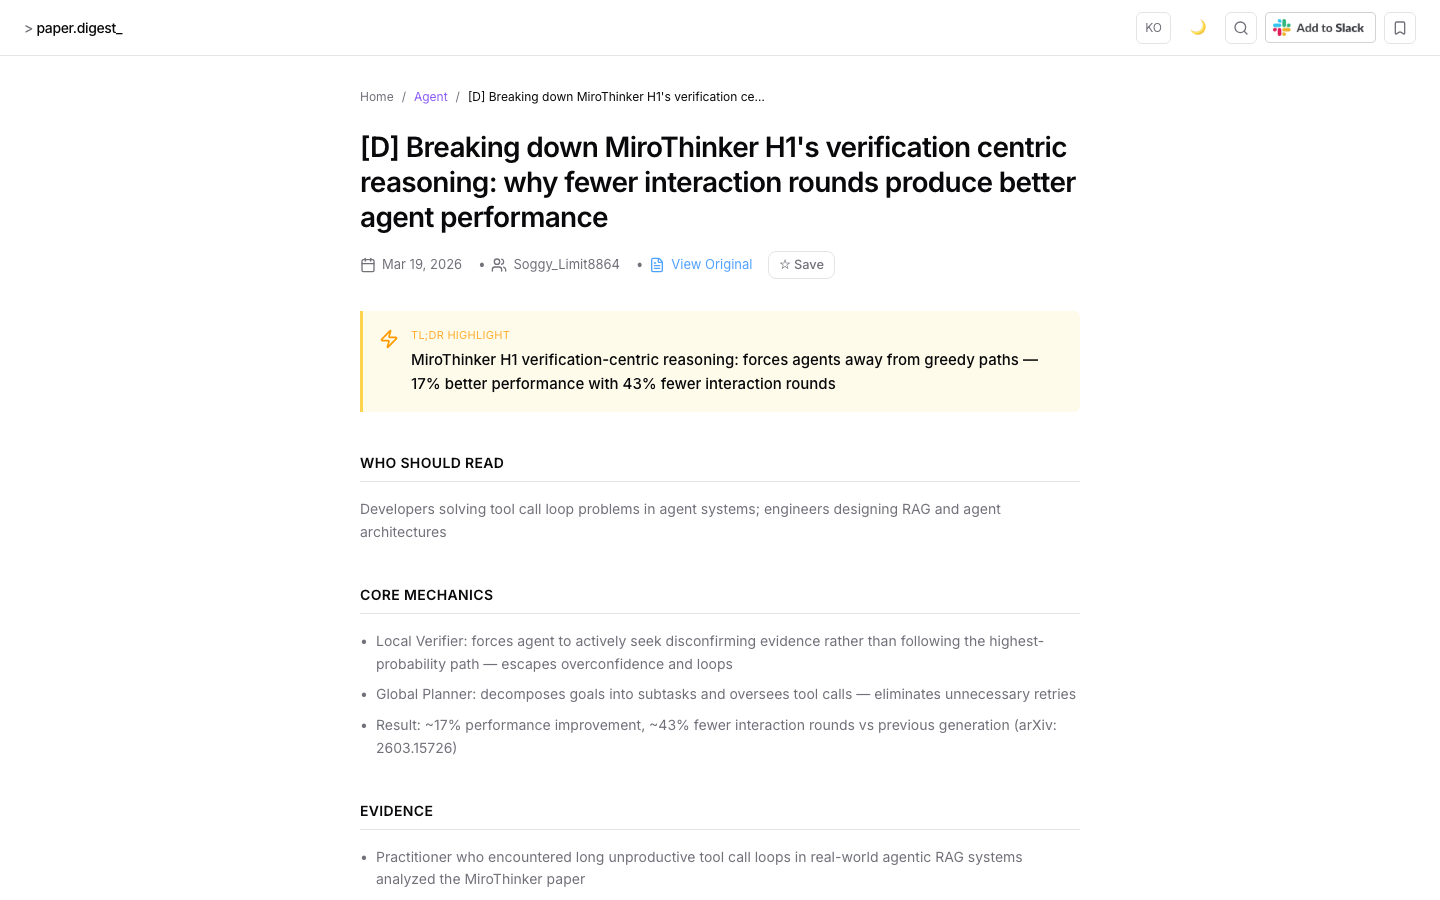
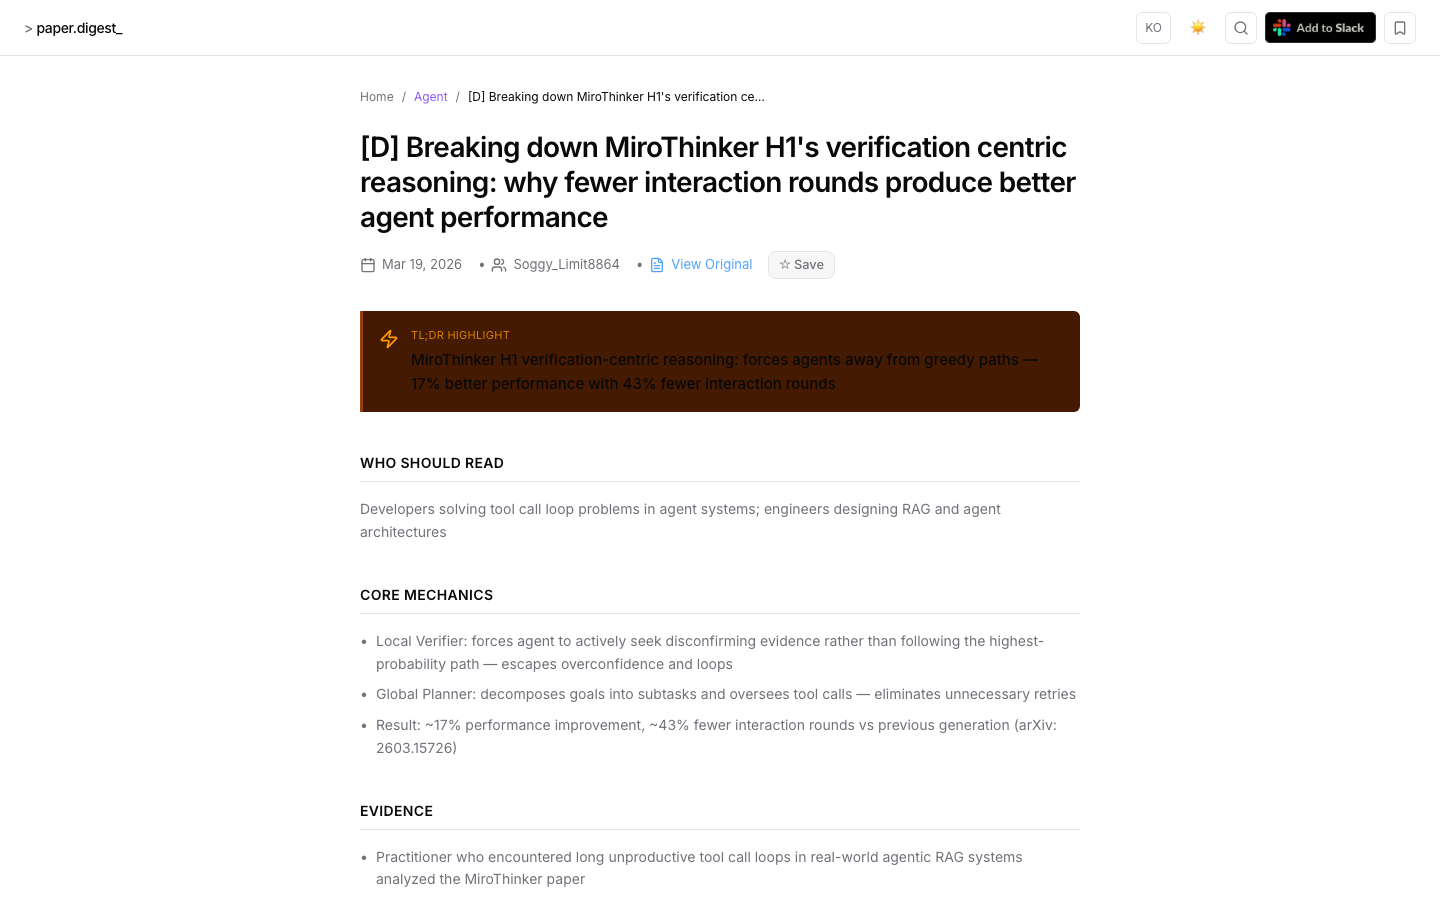
docs: README 영/한 분리 + 라이트 테마 스크린샷 교체

Changed region(s): [[0.25, 0.3422, 0.75, 0.4667], [0.875, 0.0, 0.9688, 0.0622]]

diff --git a/README.md b/README.md
@@ -9,7 +9,7 @@
 [![TypeScript](https://img.shields.io/badge/TypeScript-5-3178C6?logo=typescript&logoColor=white)](https://typescriptlang.org)
 [![License](https://img.shields.io/badge/license-MIT-22C55E)](LICENSE)
 
-**[ai-paper-delta.vercel.app](https://ai-paper-delta.vercel.app)**
+**[ai-paper-delta.vercel.app](https://ai-paper-delta.vercel.app)** · [한국어](README.ko.md)
 
 </div>
 
@@ -43,12 +43,12 @@ A GitHub Actions pipeline runs automatically every day at 07:00 KST:
 | 5. Translate | `translate.ts` | Korean summaries | Claude Sonnet | Max 12/day |
 | 6. Redeploy | `redeploy.yml` | — | Vercel production deploy | — |
 
-Screening criteria for **papers** — passes only if:
+**Screening criteria for papers** — passes only if:
 - Immediately applicable without model training or infra setup
 - A developer can change their prompting or tool usage based on this
 - Non-obvious, not already common knowledge
 
-Screening criteria for **community** — passes only if:
+**Screening criteria for community** — passes only if:
 - Technical tutorial, deep dive, or real-world experience with AI tools
 - Developer workflow or productivity content with substance
 
@@ -91,76 +91,9 @@ npx drizzle-kit push
 npm run dev   # http://localhost:3000
 ```
 
----
-
 ## Contributing
 
 PRs welcome. Bug reports and feature requests via [Issues](../../issues).
-
-## License
-
-MIT
-
----
----
-
-<div align="center">
-
-# AI Paper Digest (한국어)
-
-**AI 에이전트를 쓰거나 만드는 개발자를 위한 매일 AI 논문 · 커뮤니티 요약.**
-
-</div>
-
----
-
-<img src="docs/screenshot-ko.png" width="100%" />
-<img src="docs/screenshot-ko-detail.png" width="100%" />
-
----
-
-## 이게 뭔가요?
-
-매일 아침 수백 개의 AI 논문과 커뮤니티 글이 쏟아집니다. AI로 제품을 만드는 개발자에게 대부분은 필요 없습니다 — 모델 학습, 액션 없는 벤치마크, 아무도 적용 못 할 도메인 특화 연구들이니까요.
-
-AI Paper Digest는 그 노이즈를 걷어냅니다. arXiv, HuggingFace, Hacker News, Reddit에서 매일 자동 수집하고, 엄격한 AI 스크리닝을 거쳐 AI 에이전트, 프롬프팅, RAG를 다루는 개발자에게 실제로 도움되는 것들만 요약해서 전달합니다.
-
-기준이 높습니다: 대략 **10개 중 1개만 통과**합니다.
-
----
-
-## 어떻게 작동하나요?
-
-GitHub Actions 파이프라인이 매일 KST 07:00에 자동 실행됩니다:
-
-| 단계 | 스크립트 | 소스 | 처리 | 결과 |
-|------|----------|------|------|------|
-| 1. 논문 수집 | `collect-papers.ts` | arXiv 100개 + HuggingFace 40개 | Claude Haiku 스크리닝 (score ≥ 7) | 최대 2개 |
-| 2. 커뮤니티 수집 | `collect-community.ts` | HN 100개 + Reddit 150개 | Claude Haiku 스크리닝 (score ≥ 6) | 최대 10개 |
-| 3. 커뮤니티 요약 | `digest-community.ts` | 원문 + 댓글 전체 | Claude Sonnet 요약 | 최대 10개 |
-| 4. 논문 요약 | `summarize.ts` | PDF 전문 | Claude Sonnet 요약 | 최대 2개 |
-| 5. 영어 번역 | `translate.ts` | 한국어 요약 | Claude Sonnet 번역 | 최대 12개 |
-| 6. 재배포 | `redeploy.yml` | — | Vercel 프로덕션 배포 | — |
-
-각 요약 항목:
-- 한 줄 요약 (TL;DR)
-- 핵심 발견
-- 근거와 수치
-- 실무 적용 가이드
-- 용어 사전
-- 한/영 모두 제공
-
----
-
-## Slack 구독
-
-사이트에서 Add to Slack으로 워크스페이스에 바로 추가할 수 있습니다. 하루 종일 순차적으로 전달 — 피드를 따로 확인할 필요 없습니다.
-
----
-
-## Contributing
-
-PR 환영합니다. 버그 리포트와 기능 제안은 [Issues](../../issues)로 남겨주세요.
 
 ## License
 

diff --git a/README.ko.md b/README.ko.md
@@ -1,0 +1,91 @@
+<div align="center">
+
+# AI Paper Digest
+
+**AI 에이전트를 쓰거나 만드는 개발자를 위한 매일 AI 논문 · 커뮤니티 요약.**
+
+[![Next.js](https://img.shields.io/badge/Next.js-15-black?logo=next.js&logoColor=white)](https://nextjs.org)
+[![Claude AI](https://img.shields.io/badge/Powered%20by-Claude%20AI-D97706)](https://anthropic.com)
+[![TypeScript](https://img.shields.io/badge/TypeScript-5-3178C6?logo=typescript&logoColor=white)](https://typescriptlang.org)
+[![License](https://img.shields.io/badge/license-MIT-22C55E)](LICENSE)
+
+**[ai-paper-delta.vercel.app](https://ai-paper-delta.vercel.app)** · [English](README.md)
+
+</div>
+
+---
+
+<img src="docs/screenshot-ko.png" width="100%" />
+<img src="docs/screenshot-ko-detail.png" width="100%" />
+
+---
+
+## 이게 뭔가요?
+
+매일 아침 수백 개의 AI 논문과 커뮤니티 글이 쏟아집니다. AI로 제품을 만드는 개발자에게 대부분은 필요 없습니다 — 모델 학습, 액션 없는 벤치마크, 아무도 적용 못 할 도메인 특화 연구들이니까요.
+
+AI Paper Digest는 그 노이즈를 걷어냅니다. arXiv, HuggingFace, Hacker News, Reddit에서 매일 자동 수집하고, 엄격한 AI 스크리닝을 거쳐 AI 에이전트, 프롬프팅, RAG를 다루는 개발자에게 실제로 도움되는 것들만 요약해서 전달합니다.
+
+기준이 높습니다: 대략 **10개 중 1개만 통과**합니다.
+
+---
+
+## 어떻게 작동하나요?
+
+GitHub Actions 파이프라인이 매일 KST 07:00에 자동 실행됩니다:
+
+| 단계 | 스크립트 | 소스 | 처리 | 결과 |
+|------|----------|------|------|------|
+| 1. 논문 수집 | `collect-papers.ts` | arXiv 100개 + HuggingFace 40개 | Claude Haiku 스크리닝 (score ≥ 7) | 최대 2개 |
+| 2. 커뮤니티 수집 | `collect-community.ts` | HN 100개 + Reddit 150개 | Claude Haiku 스크리닝 (score ≥ 6) | 최대 10개 |
+| 3. 커뮤니티 요약 | `digest-community.ts` | 원문 + 댓글 전체 | Claude Sonnet 요약 | 최대 10개 |
+| 4. 논문 요약 | `summarize.ts` | PDF 전문 | Claude Sonnet 요약 | 최대 2개 |
+| 5. 영어 번역 | `translate.ts` | 한국어 요약 | Claude Sonnet 번역 | 최대 12개 |
+| 6. 재배포 | `redeploy.yml` | — | Vercel 프로덕션 배포 | — |
+
+각 요약 항목:
+- 한 줄 요약 (TL;DR)
+- 핵심 발견
+- 근거와 수치
+- 실무 적용 가이드
+- 용어 사전
+- 한/영 모두 제공
+
+---
+
+## Slack 구독
+
+사이트에서 Add to Slack으로 워크스페이스에 바로 추가할 수 있습니다. 하루 종일 순차적으로 전달 — 피드를 따로 확인할 필요 없습니다.
+
+---
+
+## Tech Stack
+
+| 영역 | 기술 |
+|------|------|
+| Framework | Next.js 15, React 19, TypeScript 5 |
+| AI | Claude Sonnet (요약) · Haiku (스크리닝) |
+| Database | Turso + Drizzle ORM |
+| Styling | Tailwind CSS v4 + shadcn/ui |
+| Infra | GitHub Actions + Vercel |
+
+---
+
+## 로컬 실행
+
+```bash
+git clone https://github.com/kangraemin/ai-paper-digest.git
+cd ai-paper-digest
+npm install
+cp .env.example .env.local
+npx drizzle-kit push
+npm run dev   # http://localhost:3000
+```
+
+## Contributing
+
+PR 환영합니다. 버그 리포트와 기능 제안은 [Issues](../../issues)로 남겨주세요.
+
+## License
+
+MIT
